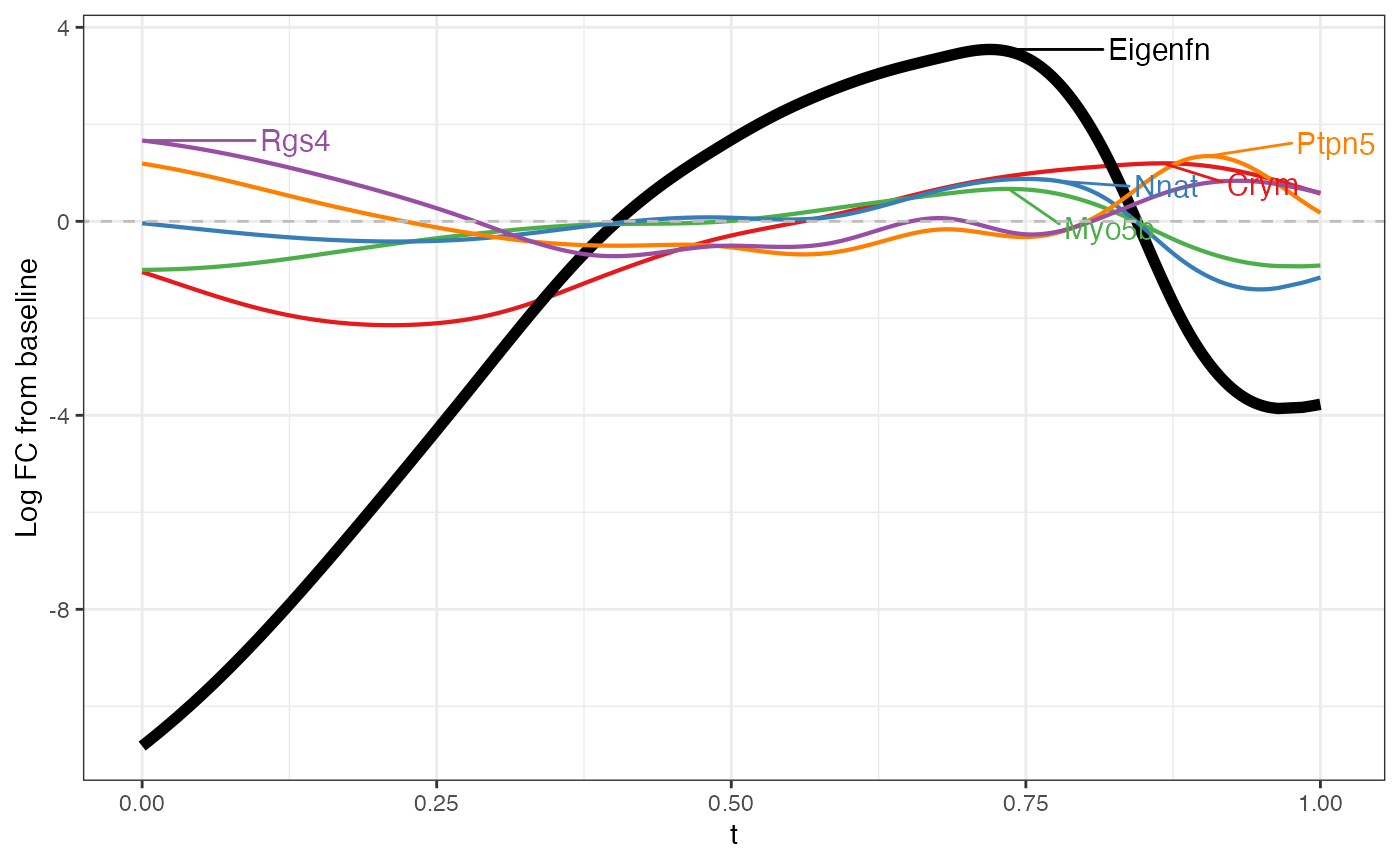
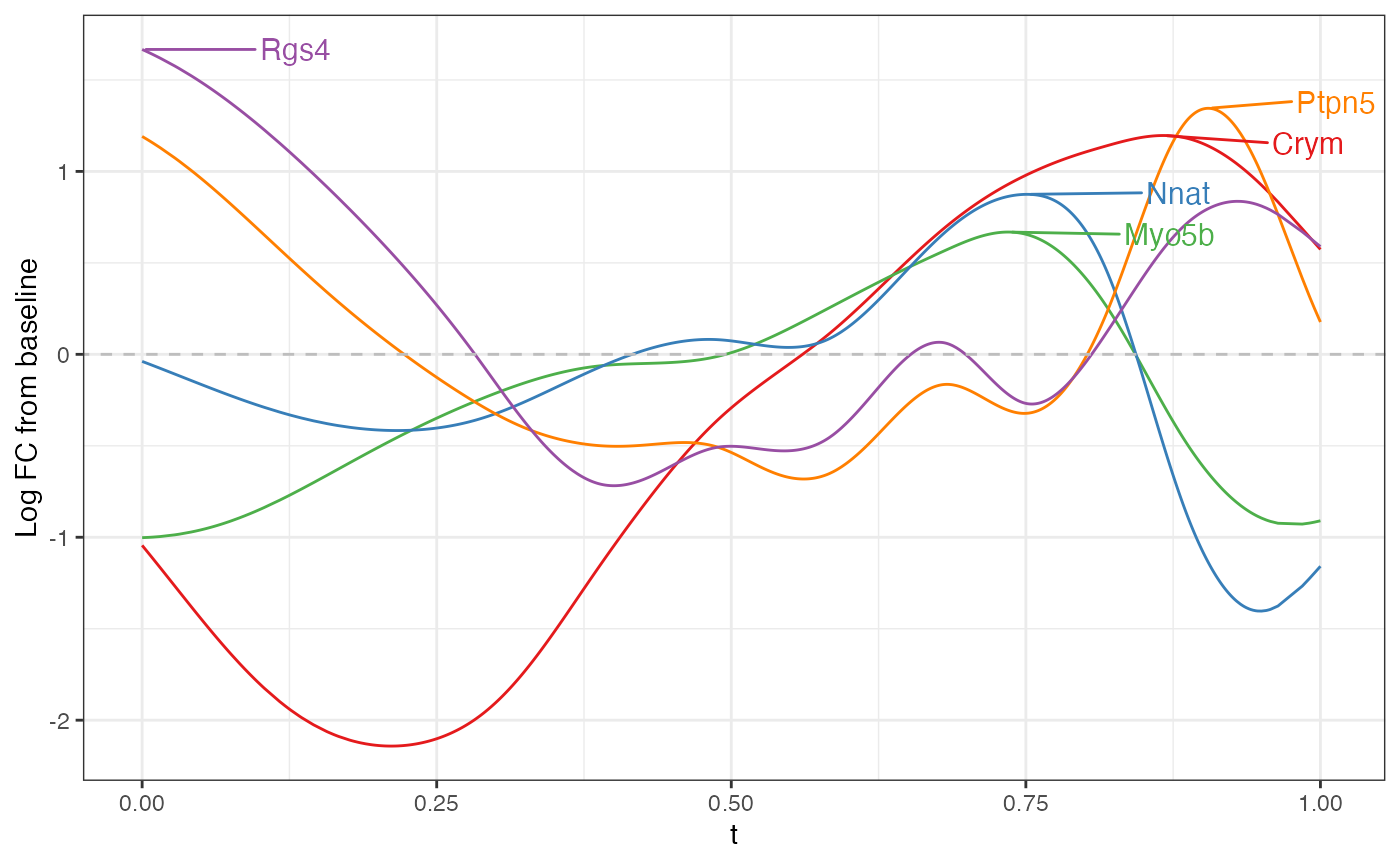
Updated site

diff --git a/docs/reference/plotFPCloading.html b/docs/reference/plotFPCloading.html
@@ -1,9 +1,7 @@
 <!DOCTYPE html>
-<!-- Generated by pkgdown: do not edit by hand --><html lang="en"><head><meta http-equiv="Content-Type" content="text/html; charset=UTF-8"><meta charset="utf-8"><meta http-equiv="X-UA-Compatible" content="IE=edge"><meta name="viewport" content="width=device-width, initial-scale=1, shrink-to-fit=no"><title>Plot top gene loadings from SVD Analysis — plotFPCloading • MorphoGAM</title><script src="../deps/jquery-3.6.0/jquery-3.6.0.min.js"></script><meta name="viewport" content="width=device-width, initial-scale=1, shrink-to-fit=no"><link href="../deps/bootstrap-5.3.1/bootstrap.min.css" rel="stylesheet"><script src="../deps/bootstrap-5.3.1/bootstrap.bundle.min.js"></script><link href="../deps/font-awesome-6.5.2/css/all.min.css" rel="stylesheet"><link href="../deps/font-awesome-6.5.2/css/v4-shims.min.css" rel="stylesheet"><script src="../deps/headroom-0.11.0/headroom.min.js"></script><script src="../deps/headroom-0.11.0/jQuery.headroom.min.js"></script><script src="../deps/bootstrap-toc-1.0.1/bootstrap-toc.min.js"></script><script src="../deps/clipboard.js-2.0.11/clipboard.min.js"></script><script src="../deps/search-1.0.0/autocomplete.jquery.min.js"></script><script src="../deps/search-1.0.0/fuse.min.js"></script><script src="../deps/search-1.0.0/mark.min.js"></script><!-- pkgdown --><script src="../pkgdown.js"></script><meta property="og:title" content="Plot top gene loadings from SVD Analysis — plotFPCloading"><meta name="description" content="Visualize the \(L\)-th FPCA eigenfunction together with the top
-num_genes genes most strongly associated with that component,
-over either the t or r coordinate."><meta property="og:description" content="Visualize the \(L\)-th FPCA eigenfunction together with the top
-num_genes genes most strongly associated with that component,
-over either the t or r coordinate."></head><body>
+<!-- Generated by pkgdown: do not edit by hand --><html lang="en"><head><meta http-equiv="Content-Type" content="text/html; charset=UTF-8"><meta charset="utf-8"><meta http-equiv="X-UA-Compatible" content="IE=edge"><meta name="viewport" content="width=device-width, initial-scale=1, shrink-to-fit=no"><title>Plot top gene loadings from SVD Analysis — plotFPCloading • MorphoGAM</title><script src="../deps/jquery-3.6.0/jquery-3.6.0.min.js"></script><meta name="viewport" content="width=device-width, initial-scale=1, shrink-to-fit=no"><link href="../deps/bootstrap-5.3.1/bootstrap.min.css" rel="stylesheet"><script src="../deps/bootstrap-5.3.1/bootstrap.bundle.min.js"></script><link href="../deps/font-awesome-6.5.2/css/all.min.css" rel="stylesheet"><link href="../deps/font-awesome-6.5.2/css/v4-shims.min.css" rel="stylesheet"><script src="../deps/headroom-0.11.0/headroom.min.js"></script><script src="../deps/headroom-0.11.0/jQuery.headroom.min.js"></script><script src="../deps/bootstrap-toc-1.0.1/bootstrap-toc.min.js"></script><script src="../deps/clipboard.js-2.0.11/clipboard.min.js"></script><script src="../deps/search-1.0.0/autocomplete.jquery.min.js"></script><script src="../deps/search-1.0.0/fuse.min.js"></script><script src="../deps/search-1.0.0/mark.min.js"></script><!-- pkgdown --><script src="../pkgdown.js"></script><meta property="og:title" content="Plot top gene loadings from SVD Analysis — plotFPCloading"><meta name="description" content="Visualize the top num_genes genes most strongly associated with the
+\(L\)-th FPCA component over either the t or r coordinate."><meta property="og:description" content="Visualize the top num_genes genes most strongly associated with the
+\(L\)-th FPCA component over either the t or r coordinate."></head><body>
     <a href="#main" class="visually-hidden-focusable">Skip to contents</a>
 
 
@@ -42,9 +40,8 @@ over either the t or r coordinate."></head><body>
     </div>
 
     <div class="ref-description section level2">
-    <p>Visualize the \(L\)-th FPCA eigenfunction together with the top
-<code>num_genes</code> genes most strongly associated with that component,
-over either the <code>t</code> or <code>r</code> coordinate.</p>
+    <p>Visualize the top <code>num_genes</code> genes most strongly associated with the
+\(L\)-th FPCA component over either the <code>t</code> or <code>r</code> coordinate.</p>
     </div>
 
     <div class="section level2">
@@ -79,15 +76,16 @@ which coordinate to plot against.</p></dd>
 </dl></div>
     <div class="section level2">
     <h2 id="value">Value<a class="anchor" aria-label="anchor" href="#value"></a></h2>
-    <p>A <code>ggplot2</code> object showing lines for the eigenfunction and the
-  selected gene smooths. A bright qualitative palette (excluding yellow) is
-  used for gene curves; labels are placed near each curve's maximum.</p>
+    <p>A <code>ggplot2</code> object showing lines for the selected gene smooths.
+  A bright qualitative palette (excluding yellow) is used for gene curves;
+  labels are placed near each curve's maximum.</p>
     </div>
     <div class="section level2">
     <h2 id="details">Details<a class="anchor" aria-label="anchor" href="#details"></a></h2>
     <p>The function identifies the <code>num_genes</code> genes with the largest absolute
-scores in the FPCA decomposition for the requested coordinate. It may flip
-sign to improve visualization.</p>
+scores in the FPCA decomposition for the requested coordinate. The
+eigenfunction is used to rank and orient the selected gene smooths, but it is
+not plotted alongside them.</p>
     </div>
 
   </main><aside class="col-md-3"><nav id="toc" aria-label="Table of contents"><h2>On this page</h2>

diff --git a/docs/reference/plotFPCloading.md b/docs/reference/plotFPCloading.md
@@ -1,8 +1,7 @@
 # Plot top gene loadings from SVD Analysis
 
-Visualize the \\L\\-th FPCA eigenfunction together with the top
-`num_genes` genes most strongly associated with that component, over
-either the `t` or `r` coordinate.
+Visualize the top `num_genes` genes most strongly associated with the
+\\L\\-th FPCA component over either the `t` or `r` coordinate.
 
 ## Usage
 
@@ -35,12 +34,13 @@ plotFPCloading(mgam_object, curve.fit, L = 1, num_genes = 5, type = "t")
 
 ## Value
 
-A `ggplot2` object showing lines for the eigenfunction and the selected
-gene smooths. A bright qualitative palette (excluding yellow) is used
-for gene curves; labels are placed near each curve's maximum.
+A `ggplot2` object showing lines for the selected gene smooths. A bright
+qualitative palette (excluding yellow) is used for gene curves; labels
+are placed near each curve's maximum.
 
 ## Details
 
 The function identifies the `num_genes` genes with the largest absolute
-scores in the FPCA decomposition for the requested coordinate. It may
-flip sign to improve visualization.
+scores in the FPCA decomposition for the requested coordinate. The
+eigenfunction is used to rank and orient the selected gene smooths, but
+it is not plotted alongside them.